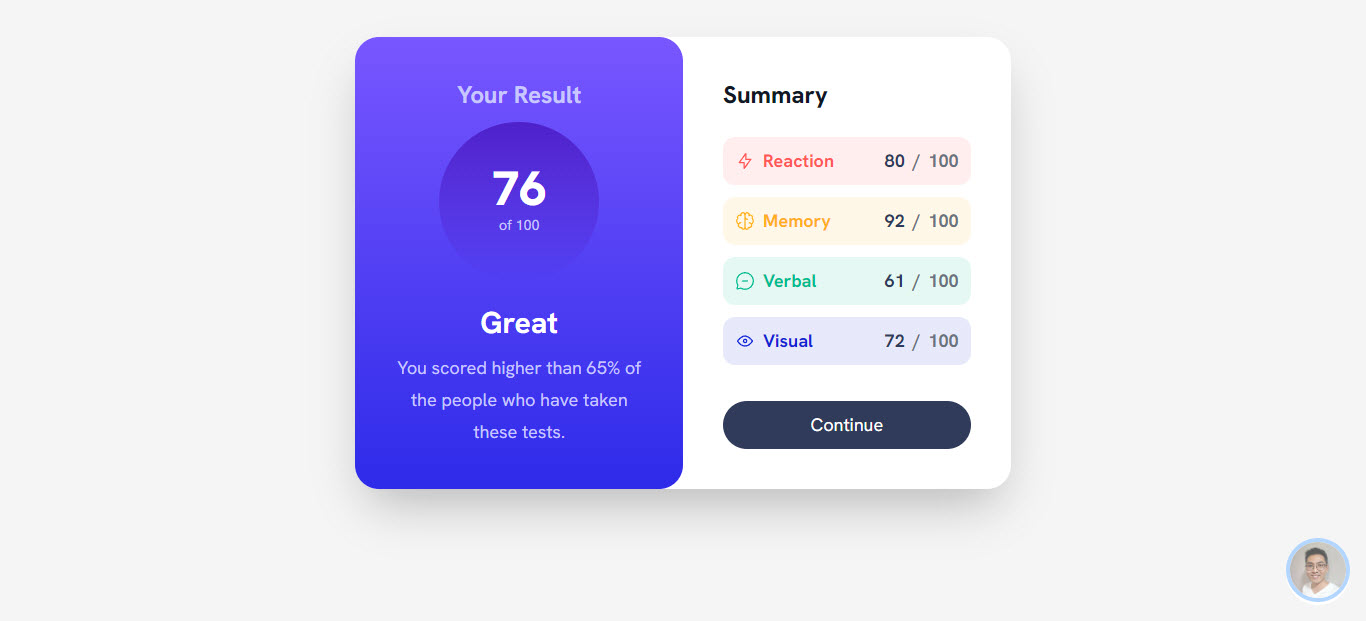
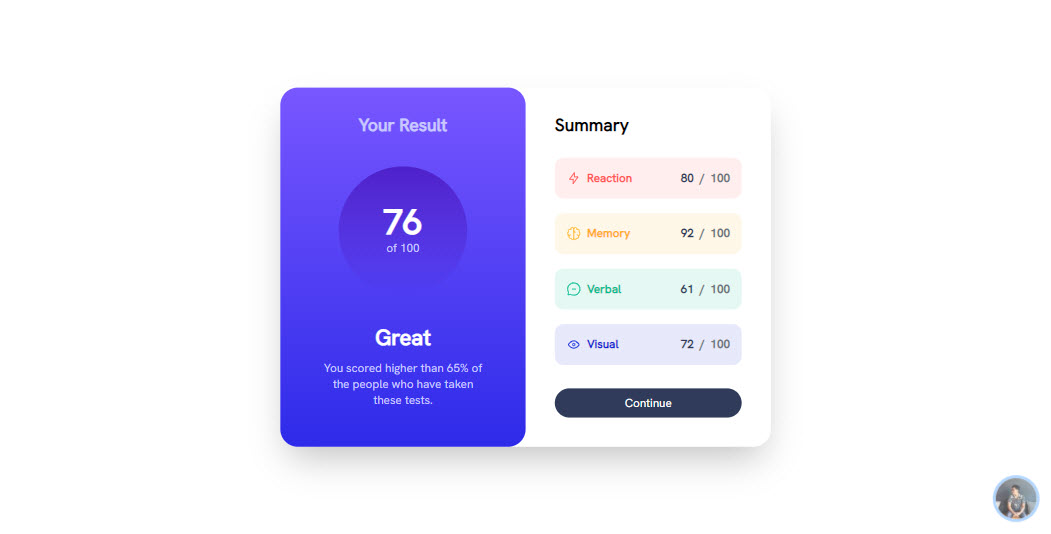
-remove footer console.log -change screenshot image

diff --git a/src/lib/components/Footer.svelte b/src/lib/components/Footer.svelte
@@ -1,8 +1,6 @@
 <script>
 	import { fade } from 'svelte/transition';
 	let showLabel = false;
-
-	$: console.log(showLabel);
 </script>
 
 <div class="grid place-content-center fixed bottom-4 right-4 z-20 bg-white rounded-full not-prose">
